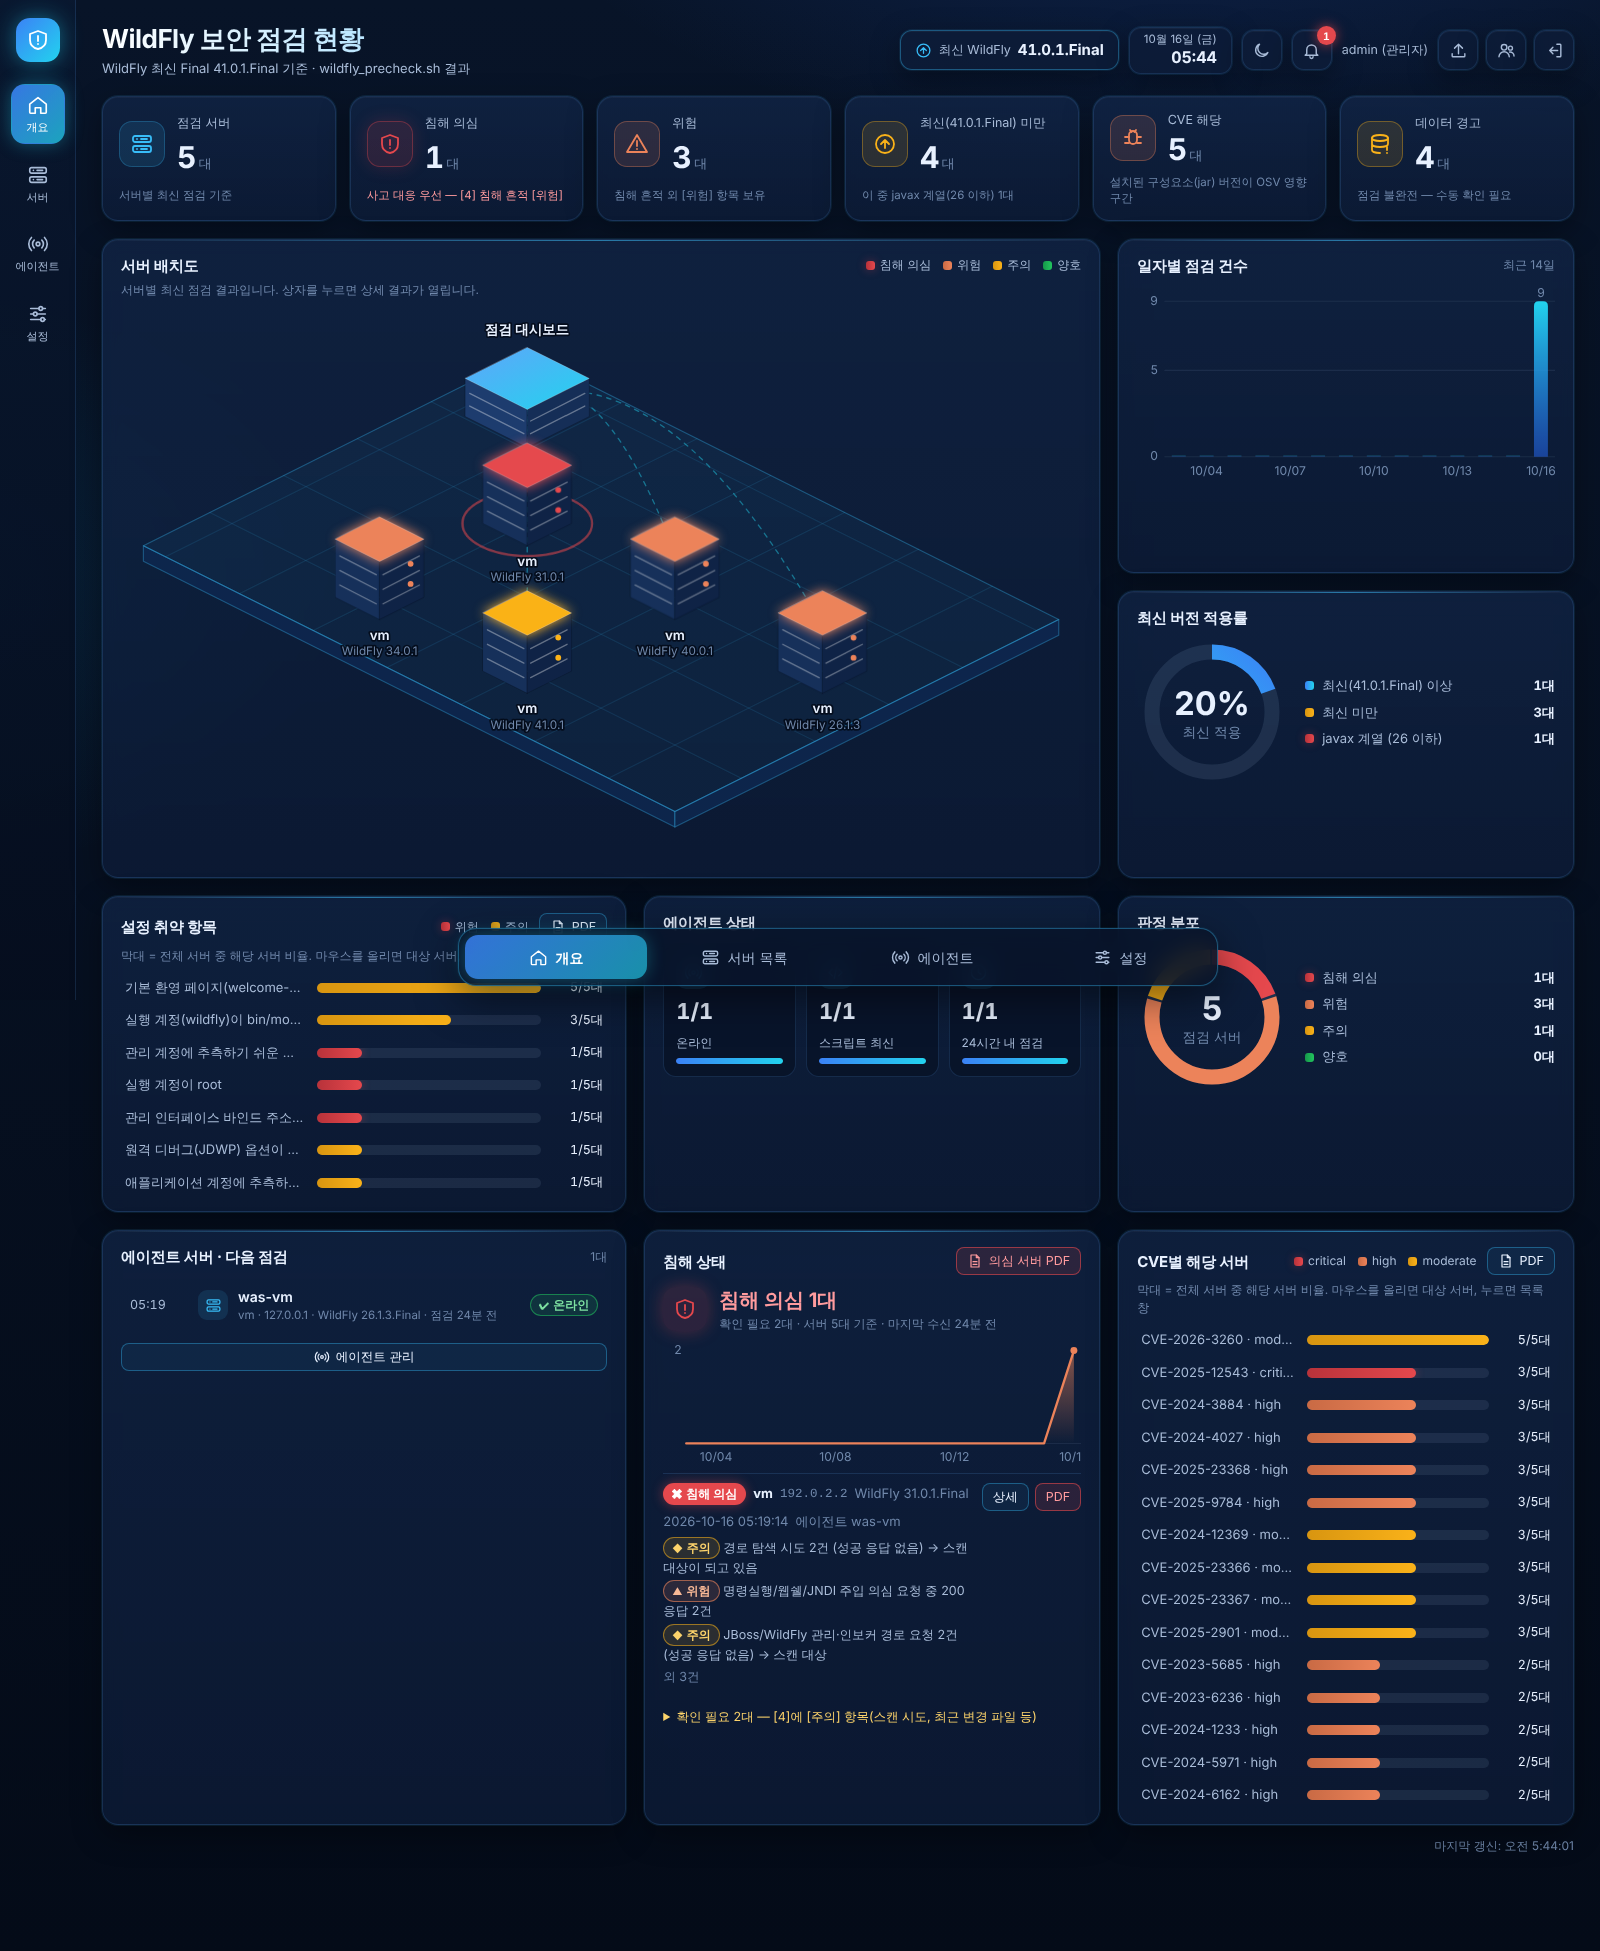
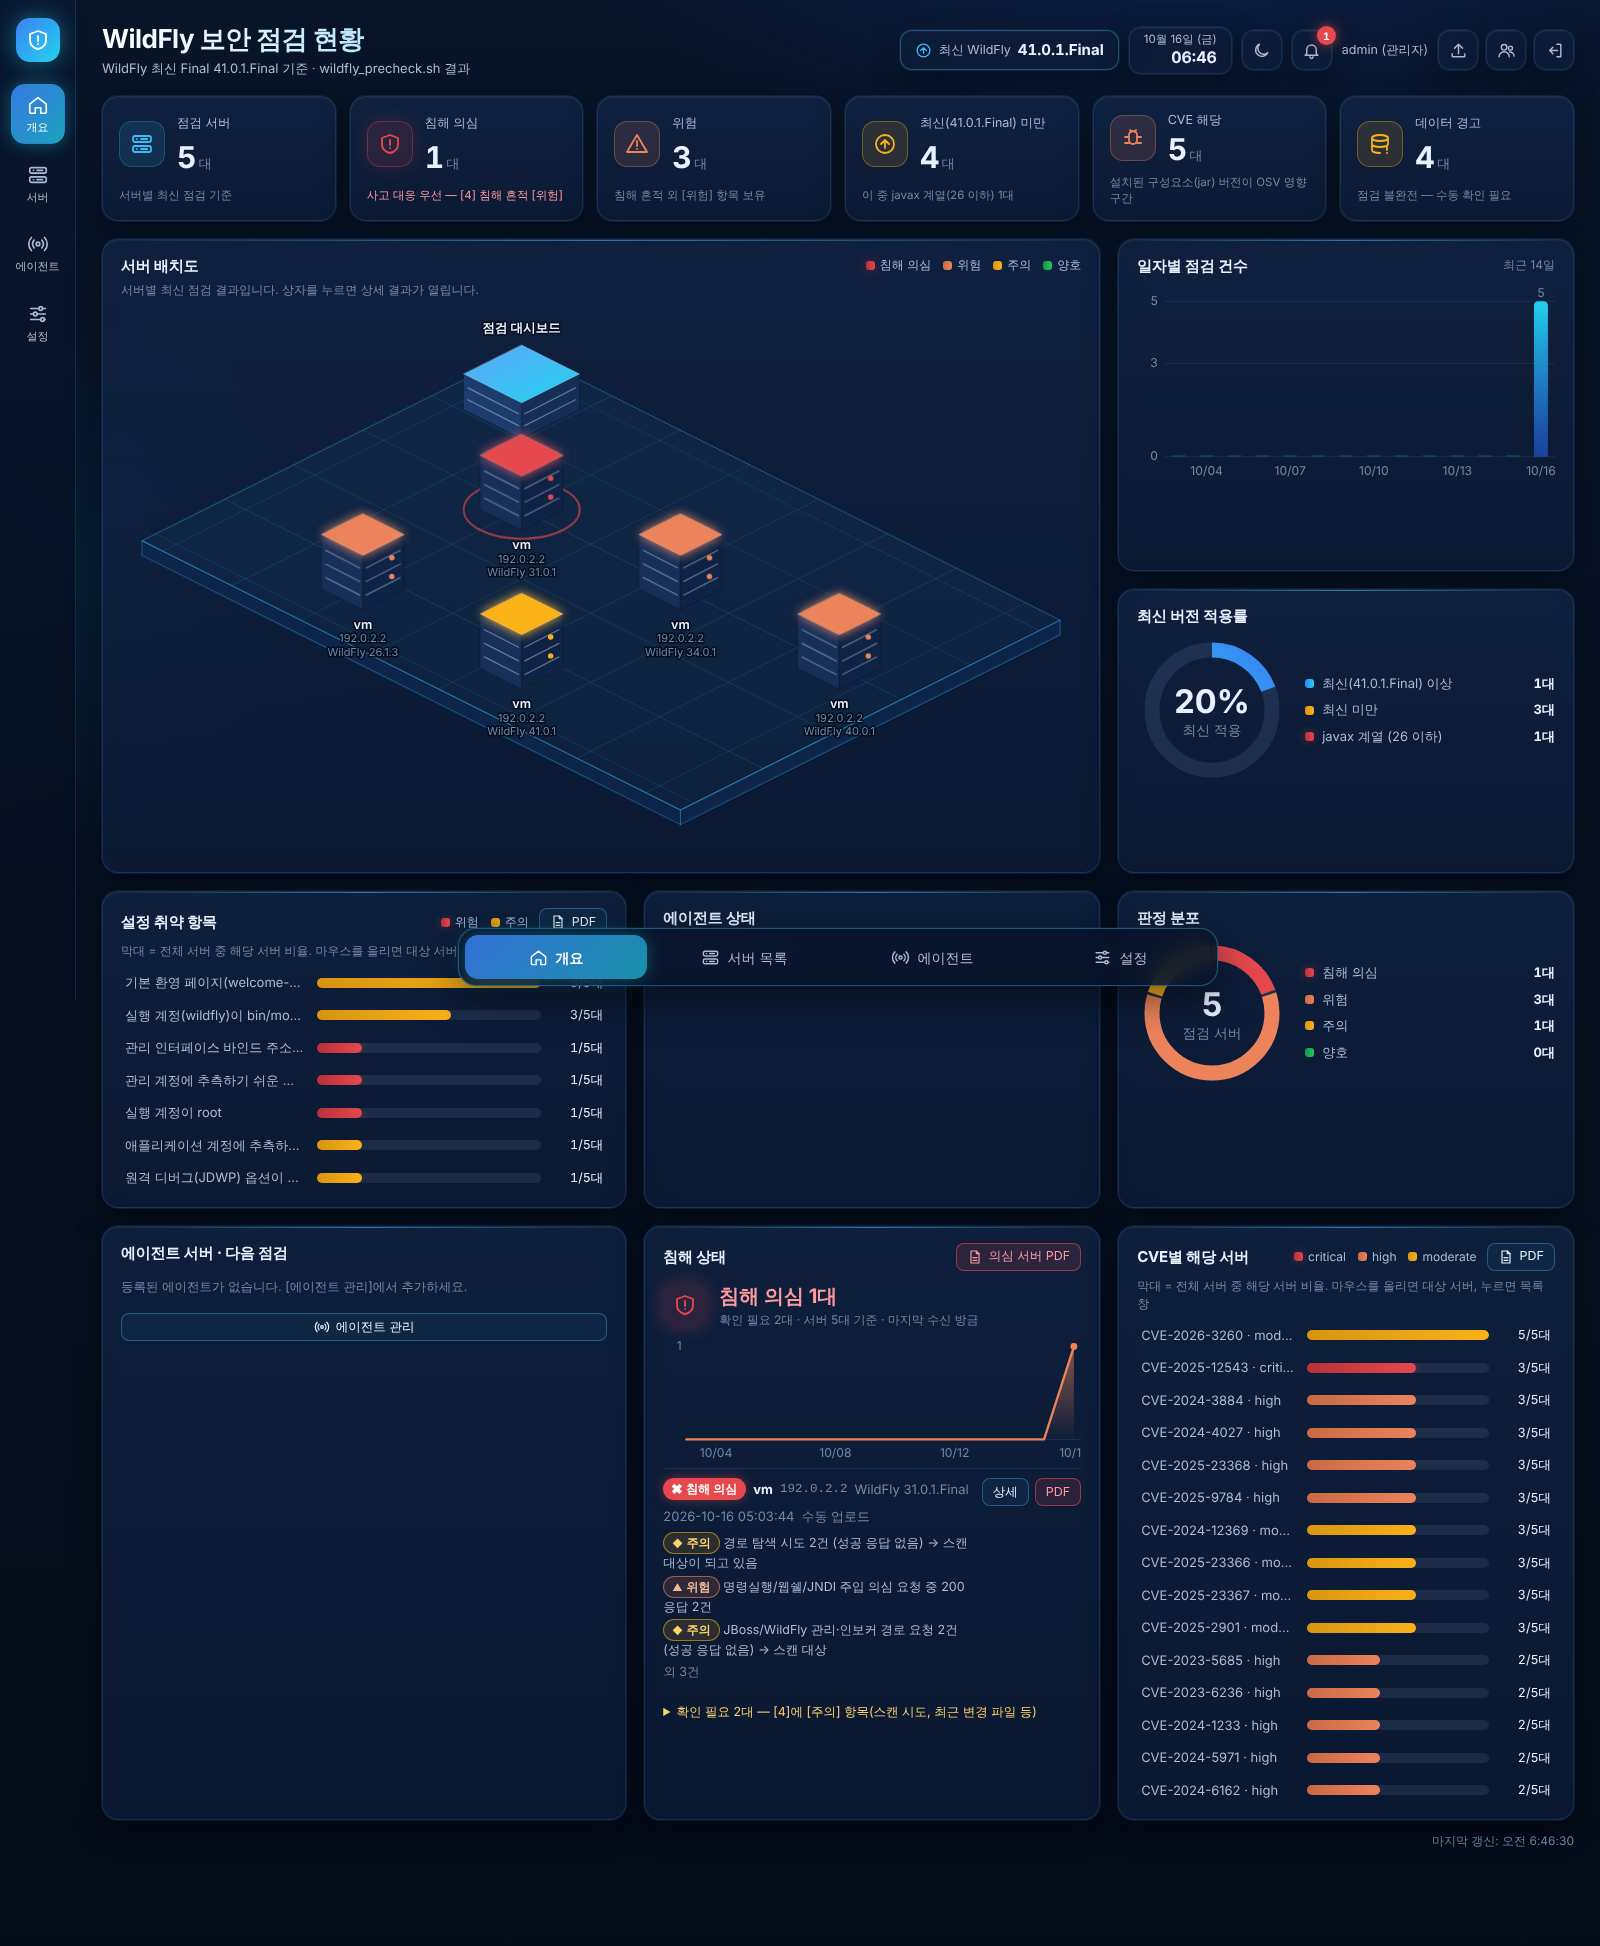
wildfly-precheck-dashboard: 서버 배치도 이름표에 서버 IP 와 WildFly 버전 함께 표시
- 이름표를 호스트 / 서버 IP / WildFly 버전 3줄로 (IP 기록이 없으면 에이전트 접속 IP)
- 3줄 이름표가 대각선 앞 상자와 겹치지 않도록 서버 간격 2.0 → 2.3

Claude-Session: https://claude.ai/code/session_01BytzhKczyU2SNQyuSauYM3

diff --git a/wildfly-precheck-dashboard/src/main/webapp/static/app.js b/wildfly-precheck-dashboard/src/main/webapp/static/app.js
@@ -886,7 +886,7 @@
     const cols = Math.max(2, Math.ceil(Math.sqrt(n || 1)));
     const rows = Math.max(2, Math.ceil((n || 1) / cols));
     const W = 132, H = 66;                       // 바닥 칸 하나의 폭·높이 (2:1 등각)
-    const SP = 2.0;                              // 서버 사이 간격 (칸 단위). 뒤 서버 이름표가 대각선 앞 상자 윗면과 겹치지 않는 최소값
+    const SP = 2.3;                              // 서버 사이 간격 (칸 단위). 뒤 서버 이름표(3줄)가 대각선 앞 상자 윗면과 겹치지 않는 값
     const P = (gx, gy) => [(gx - gy) * W / 2, (gx + gy) * H / 2];
     const pts = a => a.map(p => p.join(',')).join(' ');
     const agentsByName = new Map(((state.agents && state.agents.agents) || []).map(a => [a.name, a]));
@@ -952,7 +952,9 @@
       g.append(svg('circle', { class: 'led', cx: c[0] + W * 0.21, cy: c[1] - 12, r: 2.6, fill: tone }));
       g.append(svg('circle', { class: 'led', cx: c[0] + W * 0.21, cy: c[1] - 30, r: 2.6, fill: tone }));
       labels.push(svg('text', { class: 'iso-label', x: c[0], y: c[1] + H * 0.3 + 18 }, r.host.length > 16 ? r.host.slice(0, 15) + '…' : r.host));
-      labels.push(svg('text', { class: 'iso-sub', x: c[0], y: c[1] + H * 0.3 + 32 }, r.version ? 'WildFly ' + r.version.replace(/\.Final$/, '') : (r.ip || '')));
+      // 이름표 3줄: 호스트 / 서버 IP / WildFly 버전 (SP=2.0 이면 셋째 줄까지 대각선 앞 상자와 겹치지 않음)
+      labels.push(svg('text', { class: 'iso-sub', x: c[0], y: c[1] + H * 0.3 + 31 }, r.ip ? r.ip + (r.ipFromAgent ? ' (접속 IP)' : '') : 'IP 미확인'));
+      labels.push(svg('text', { class: 'iso-sub', x: c[0], y: c[1] + H * 0.3 + 44 }, r.version ? 'WildFly ' + r.version.replace(/\.Final$/, '') : '버전 미확인'));
       tip(g, () => [hostLabel(r), { level: r.status === 'compromise' ? 'compromise' : r.status, text: `WildFly ${r.version || '?'}${r.belowLatest ? ' (최신 미만)' : ''}` },
         `점검 ${r.checkedAt || '-'} · ${r.source ? '에이전트 ' + r.source : '수동 업로드'}`,
         `위험 ${r.counts.risk} · 주의 ${r.counts.warn} · 해당 CVE ${cveTotal(r)}`,
